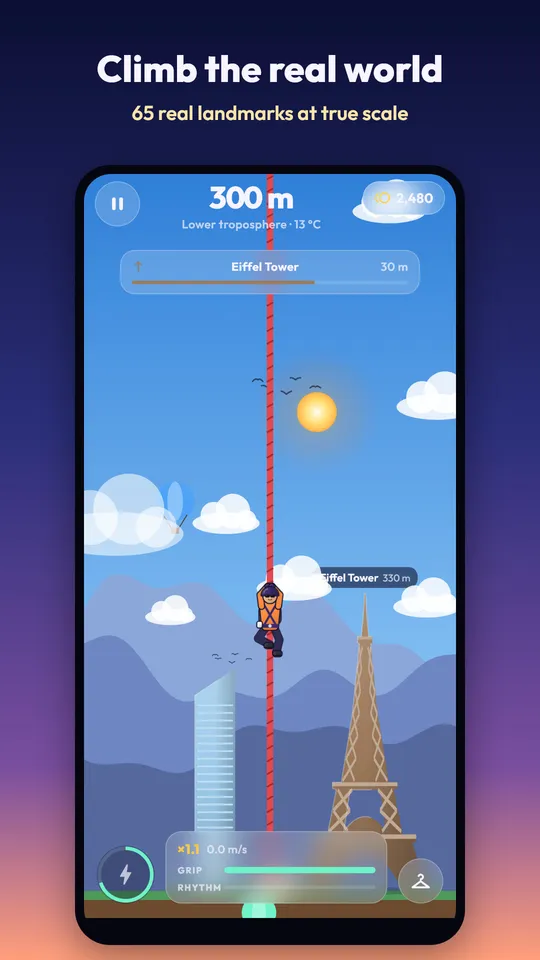
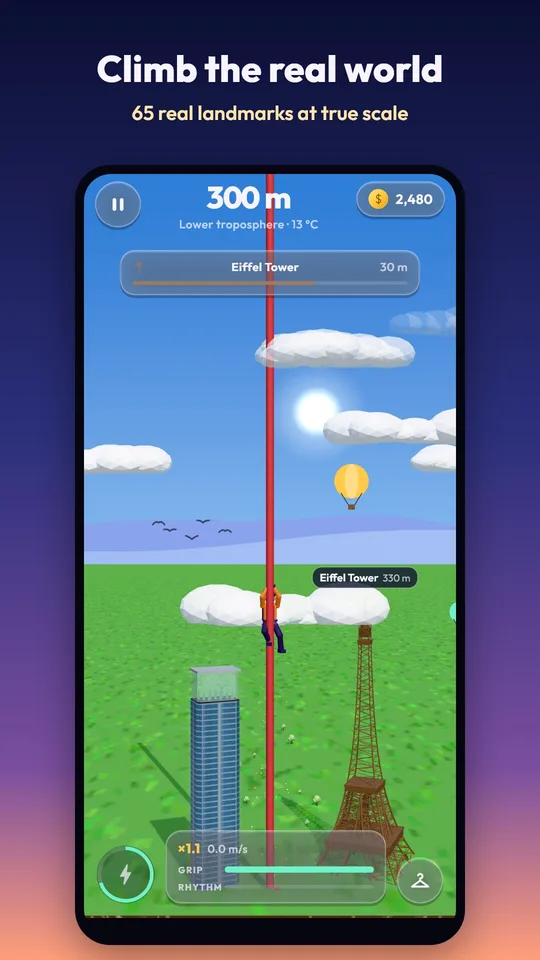
feat(apps): Altitude is now 3D, new screenshots

diff --git a/src/content.js b/src/content.js
@@ -69,9 +69,9 @@ export const apps = [
     ads: true,
     tagline: "Climb a rope to the Sun, then dig to the center of the Earth.",
     description:
-      "A minimalist climbing game about the real scale of our world. Pass the Eiffel Tower, Everest and the Moon, burn up at the Sun, and come back as a Phoenix to dig through the crust and the core.",
+      "A stylized 3D climbing game about the real scale of our world. Pass detailed 3D models of the Eiffel Tower, Everest, the ISS and the Moon, burn up at the Sun, and come back as a Phoenix to dig through the crust and the core.",
     facts: ["Real heights, from landmarks to the Sun", "Two phases: climb, then dig", "6 languages"],
-    stack: ["Flutter", "Dart", "Firebase"],
+    stack: ["Flutter", "three.js", "WebGL", "Firebase"],
     play: play("com.elpages.altitude"),
     icon: img("altitude", "icon.webp"),
     feature: img("altitude", "feature.webp"),
